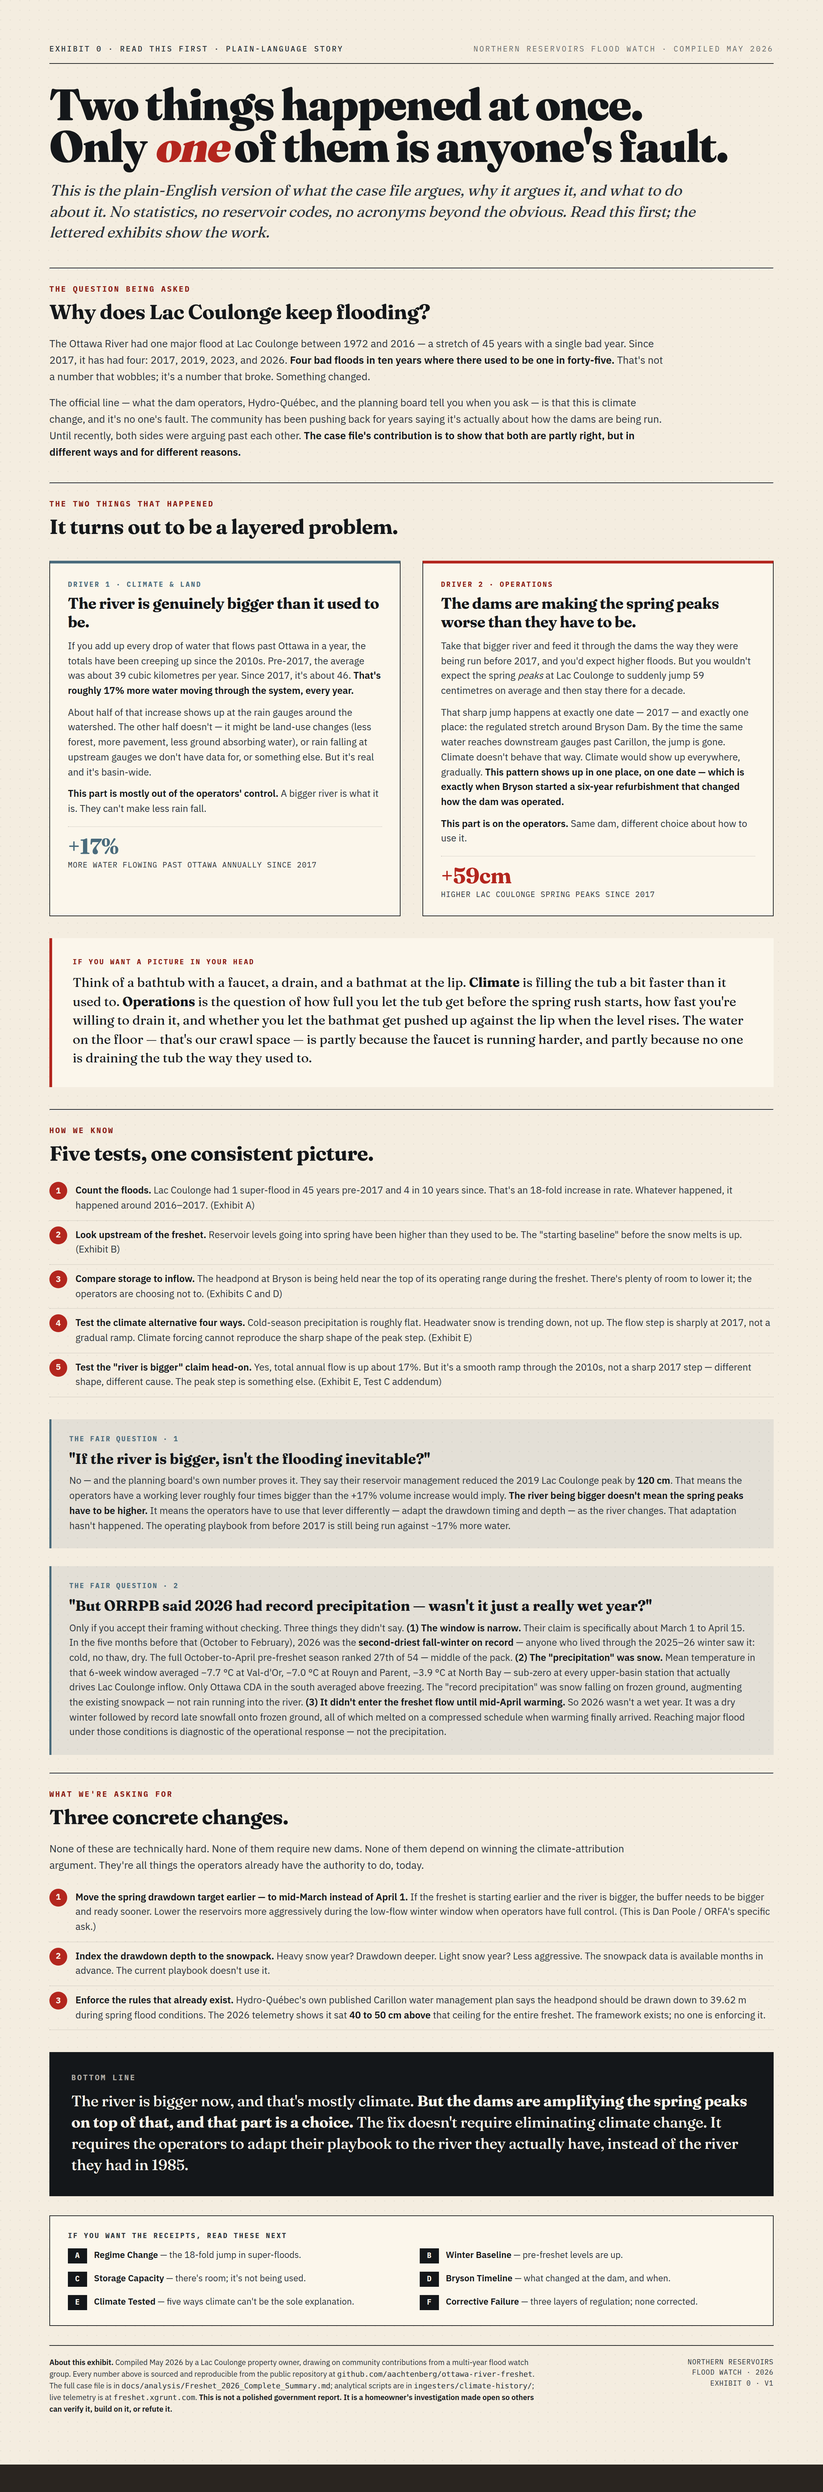
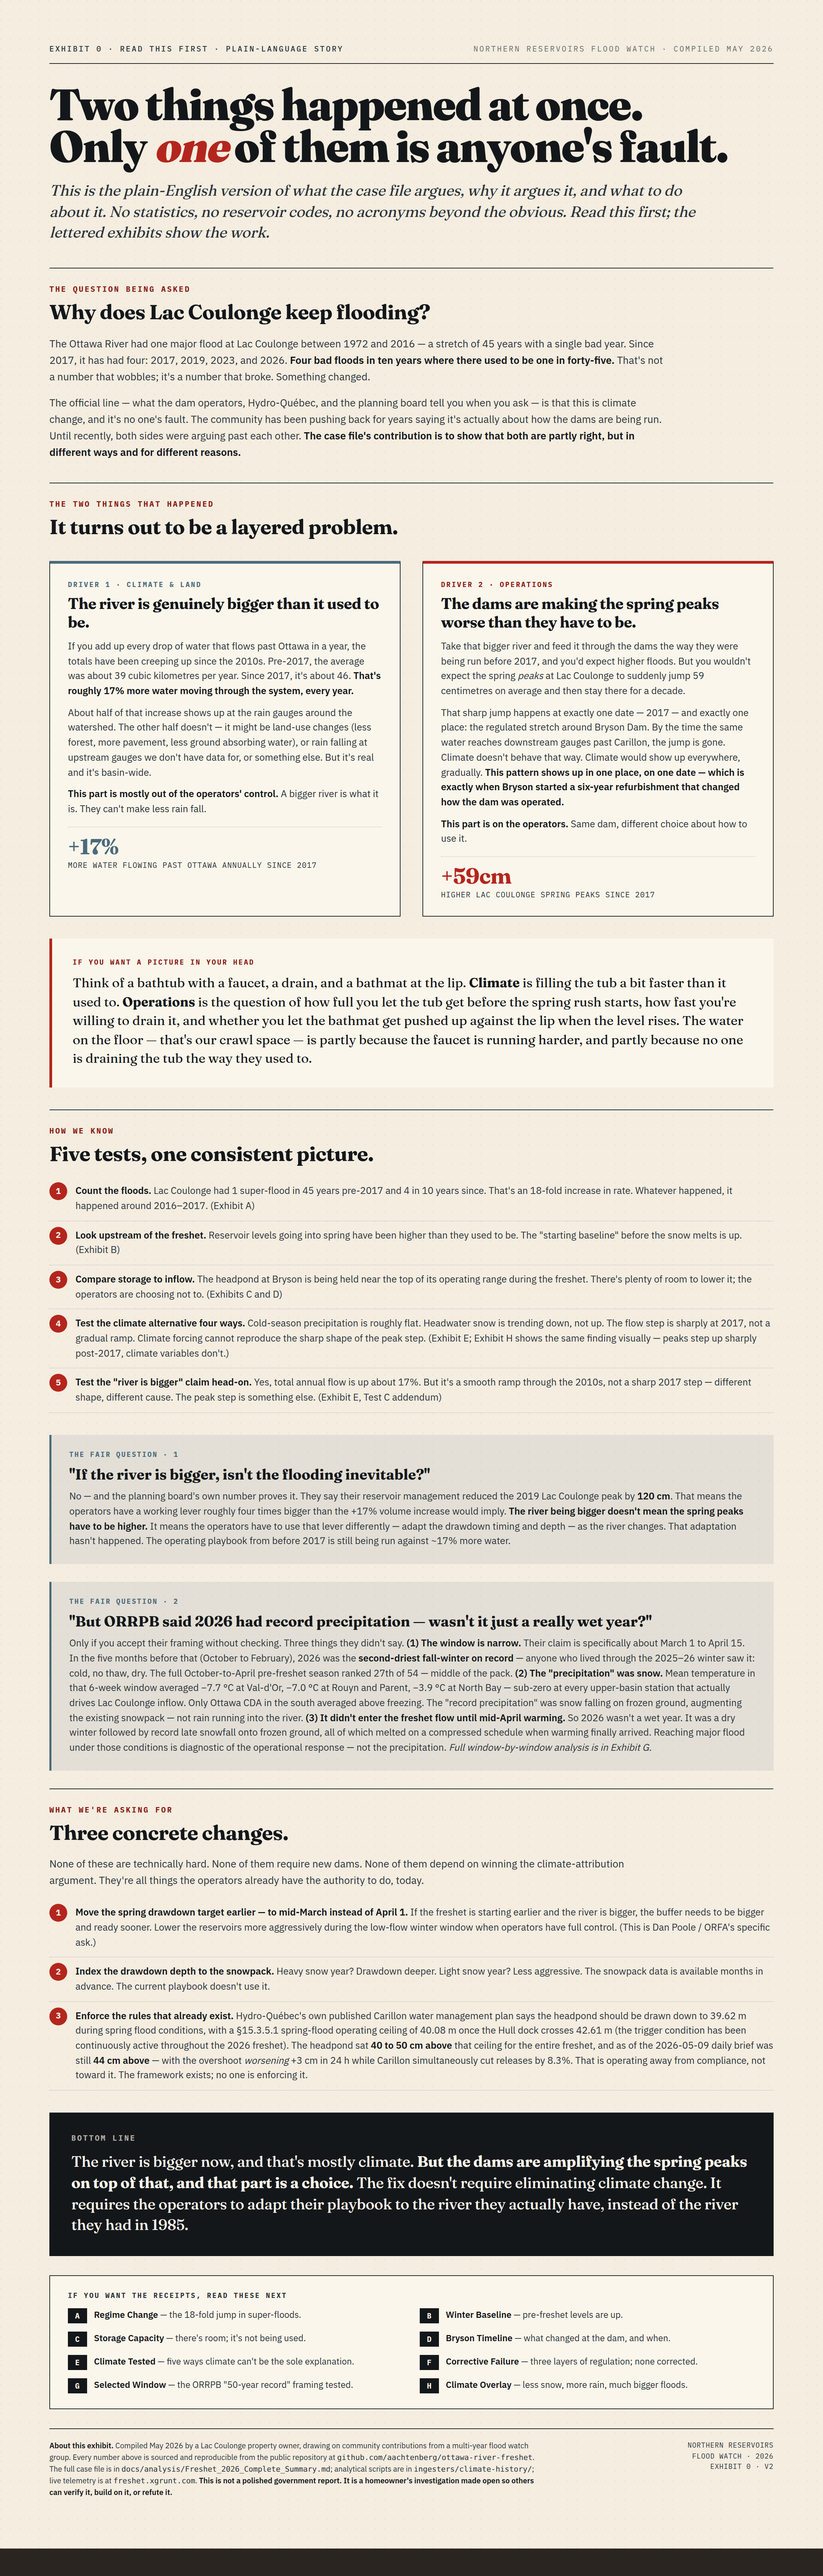
docs(freshet/exhibits): refresh Exhibit 0 v1→v2 — add G/H references, sharpen §15.3.5.1 bullet
Updates the plain-language entry exhibit to reflect work landed since
v1 was compiled in early May 2026. No claim is changed; the
substantive case file's argument is unchanged. Documentation /
sourcing improvements only:

- Test #4 climate-tested bullet now namechecks Exhibit H as the visual
  companion to Exhibit E's regression-based finding ("peaks step up
  sharply post-2017, climate variables don't")
- Fair question #2 answer (the "wasn't 2026 just a wet year?" rebuttal)
  was already paraphrasing Exhibit G's analysis without crediting it;
  now cites "full window-by-window analysis is in Exhibit G" so a
  reader can trace the specific window-shopping argument back to its
  source exhibit
- §15.3.5.1 enforcement bullet sharpened with the May 9 daily brief's
  current data: ceiling 40.08 m once Hull dock crosses 42.61 m
  (continuously active throughout 2026 freshet); headpond was at 44 cm
  above ceiling on May 9 with the overshoot worsening +3 cm in 24 h
  while Carillon simultaneously cut releases by 8.3% — operating away
  from compliance, not toward it. Concrete numbers replace the earlier
  generic "40 to 50 cm above" range.
- "Read these next" grid expanded from 6 (A-F) to 8 (A-H), adding
  Exhibit G (Selected Window — ORRPB framing test) and Exhibit H
  (Climate Overlay — less snow, more rain, much bigger floods). Both
  exhibits exist in the case file but were missing from this entry
  point's links.
- Footer version v1 → v2
[…]

Changed region(s): [[0.0625, 0.2178, 0.9375, 0.9647], [0.0625, 0.0311, 0.8438, 0.3423], [0.8438, 0.9336, 0.9375, 0.9647]]

diff --git a/docs/exhibits/Exhibit_0_Plain_Language.html b/docs/exhibits/Exhibit_0_Plain_Language.html
@@ -457,7 +457,7 @@ html, body {
     <li><strong>Count the floods.</strong> Lac Coulonge had 1 super-flood in 45 years pre-2017 and 4 in 10 years since. That's an 18-fold increase in rate. Whatever happened, it happened around 2016–2017. (Exhibit A)</li>
     <li><strong>Look upstream of the freshet.</strong> Reservoir levels going into spring have been higher than they used to be. The "starting baseline" before the snow melts is up. (Exhibit B)</li>
     <li><strong>Compare storage to inflow.</strong> The headpond at Bryson is being held near the top of its operating range during the freshet. There's plenty of room to lower it; the operators are choosing not to. (Exhibits C and D)</li>
-    <li><strong>Test the climate alternative four ways.</strong> Cold-season precipitation is roughly flat. Headwater snow is trending down, not up. The flow step is sharply at 2017, not a gradual ramp. Climate forcing cannot reproduce the sharp shape of the peak step. (Exhibit E)</li>
+    <li><strong>Test the climate alternative four ways.</strong> Cold-season precipitation is roughly flat. Headwater snow is trending down, not up. The flow step is sharply at 2017, not a gradual ramp. Climate forcing cannot reproduce the sharp shape of the peak step. (Exhibit E; Exhibit H shows the same finding visually — peaks step up sharply post-2017, climate variables don't.)</li>
     <li><strong>Test the "river is bigger" claim head-on.</strong> Yes, total annual flow is up about 17%. But it's a smooth ramp through the 2010s, not a sharp 2017 step — different shape, different cause. The peak step is something else. (Exhibit E, Test C addendum)</li>
   </ol>
 </div>
@@ -474,7 +474,7 @@ html, body {
   <div class="label">The fair question · 2</div>
   <div class="question">"But ORRPB said 2026 had record precipitation — wasn't it just a really wet year?"</div>
   <div class="answer">
-    Only if you accept their framing without checking. Three things they didn't say. <strong>(1) The window is narrow.</strong> Their claim is specifically about March 1 to April 15. In the five months before that (October to February), 2026 was the <strong>second-driest fall-winter on record</strong> — anyone who lived through the 2025–26 winter saw it: cold, no thaw, dry. The full October-to-April pre-freshet season ranked 27th of 54 — middle of the pack. <strong>(2) The "precipitation" was snow.</strong> Mean temperature in that 6-week window averaged −7.7 °C at Val-d'Or, −7.0 °C at Rouyn and Parent, −3.9 °C at North Bay — sub-zero at every upper-basin station that actually drives Lac Coulonge inflow. Only Ottawa CDA in the south averaged above freezing. The "record precipitation" was snow falling on frozen ground, augmenting the existing snowpack — not rain running into the river. <strong>(3) It didn't enter the freshet flow until mid-April warming.</strong> So 2026 wasn't a wet year. It was a dry winter followed by record late snowfall onto frozen ground, all of which melted on a compressed schedule when warming finally arrived. Reaching major flood under those conditions is diagnostic of the operational response — not the precipitation.
+    Only if you accept their framing without checking. Three things they didn't say. <strong>(1) The window is narrow.</strong> Their claim is specifically about March 1 to April 15. In the five months before that (October to February), 2026 was the <strong>second-driest fall-winter on record</strong> — anyone who lived through the 2025–26 winter saw it: cold, no thaw, dry. The full October-to-April pre-freshet season ranked 27th of 54 — middle of the pack. <strong>(2) The "precipitation" was snow.</strong> Mean temperature in that 6-week window averaged −7.7 °C at Val-d'Or, −7.0 °C at Rouyn and Parent, −3.9 °C at North Bay — sub-zero at every upper-basin station that actually drives Lac Coulonge inflow. Only Ottawa CDA in the south averaged above freezing. The "record precipitation" was snow falling on frozen ground, augmenting the existing snowpack — not rain running into the river. <strong>(3) It didn't enter the freshet flow until mid-April warming.</strong> So 2026 wasn't a wet year. It was a dry winter followed by record late snowfall onto frozen ground, all of which melted on a compressed schedule when warming finally arrived. Reaching major flood under those conditions is diagnostic of the operational response — not the precipitation. <em>Full window-by-window analysis is in Exhibit G.</em>
   </div>
 </div>
 
@@ -488,7 +488,7 @@ html, body {
   <ol class="numbered-list">
     <li><strong>Move the spring drawdown target earlier — to mid-March instead of April 1.</strong> If the freshet is starting earlier and the river is bigger, the buffer needs to be bigger and ready sooner. Lower the reservoirs more aggressively during the low-flow winter window when operators have full control. (This is Dan Poole / ORFA's specific ask.)</li>
     <li><strong>Index the drawdown depth to the snowpack.</strong> Heavy snow year? Drawdown deeper. Light snow year? Less aggressive. The snowpack data is available months in advance. The current playbook doesn't use it.</li>
-    <li><strong>Enforce the rules that already exist.</strong> Hydro-Québec's own published Carillon water management plan says the headpond should be drawn down to 39.62 m during spring flood conditions. The 2026 telemetry shows it sat <strong>40 to 50 cm above</strong> that ceiling for the entire freshet. The framework exists; no one is enforcing it.</li>
+    <li><strong>Enforce the rules that already exist.</strong> Hydro-Québec's own published Carillon water management plan says the headpond should be drawn down to 39.62 m during spring flood conditions, with a §15.3.5.1 spring-flood operating ceiling of 40.08 m once the Hull dock crosses 42.61 m (the trigger condition has been continuously active throughout the 2026 freshet). The headpond sat <strong>40 to 50 cm above</strong> that ceiling for the entire freshet, and as of the 2026-05-09 daily brief was still <strong>44 cm above</strong> — with the overshoot <em>worsening</em> +3 cm in 24 h while Carillon simultaneously cut releases by 8.3%. That is operating away from compliance, not toward it. The framework exists; no one is enforcing it.</li>
   </ol>
 </div>
 
@@ -508,6 +508,8 @@ html, body {
     <div class="row"><div class="badge">D</div><div><strong>Bryson Timeline</strong> — what changed at the dam, and when.</div></div>
     <div class="row"><div class="badge">E</div><div><strong>Climate Tested</strong> — five ways climate can't be the sole explanation.</div></div>
     <div class="row"><div class="badge">F</div><div><strong>Corrective Failure</strong> — three layers of regulation; none corrected.</div></div>
+    <div class="row"><div class="badge">G</div><div><strong>Selected Window</strong> — the ORRPB "50-year record" framing tested.</div></div>
+    <div class="row"><div class="badge">H</div><div><strong>Climate Overlay</strong> — less snow, more rain, much bigger floods.</div></div>
   </div>
 </div>
 
@@ -518,7 +520,7 @@ html, body {
   <div class="right">
     NORTHERN RESERVOIRS<br>
     FLOOD WATCH · 2026<br>
-    EXHIBIT 0 · v1
+    EXHIBIT 0 · v2
   </div>
 </div>
 
